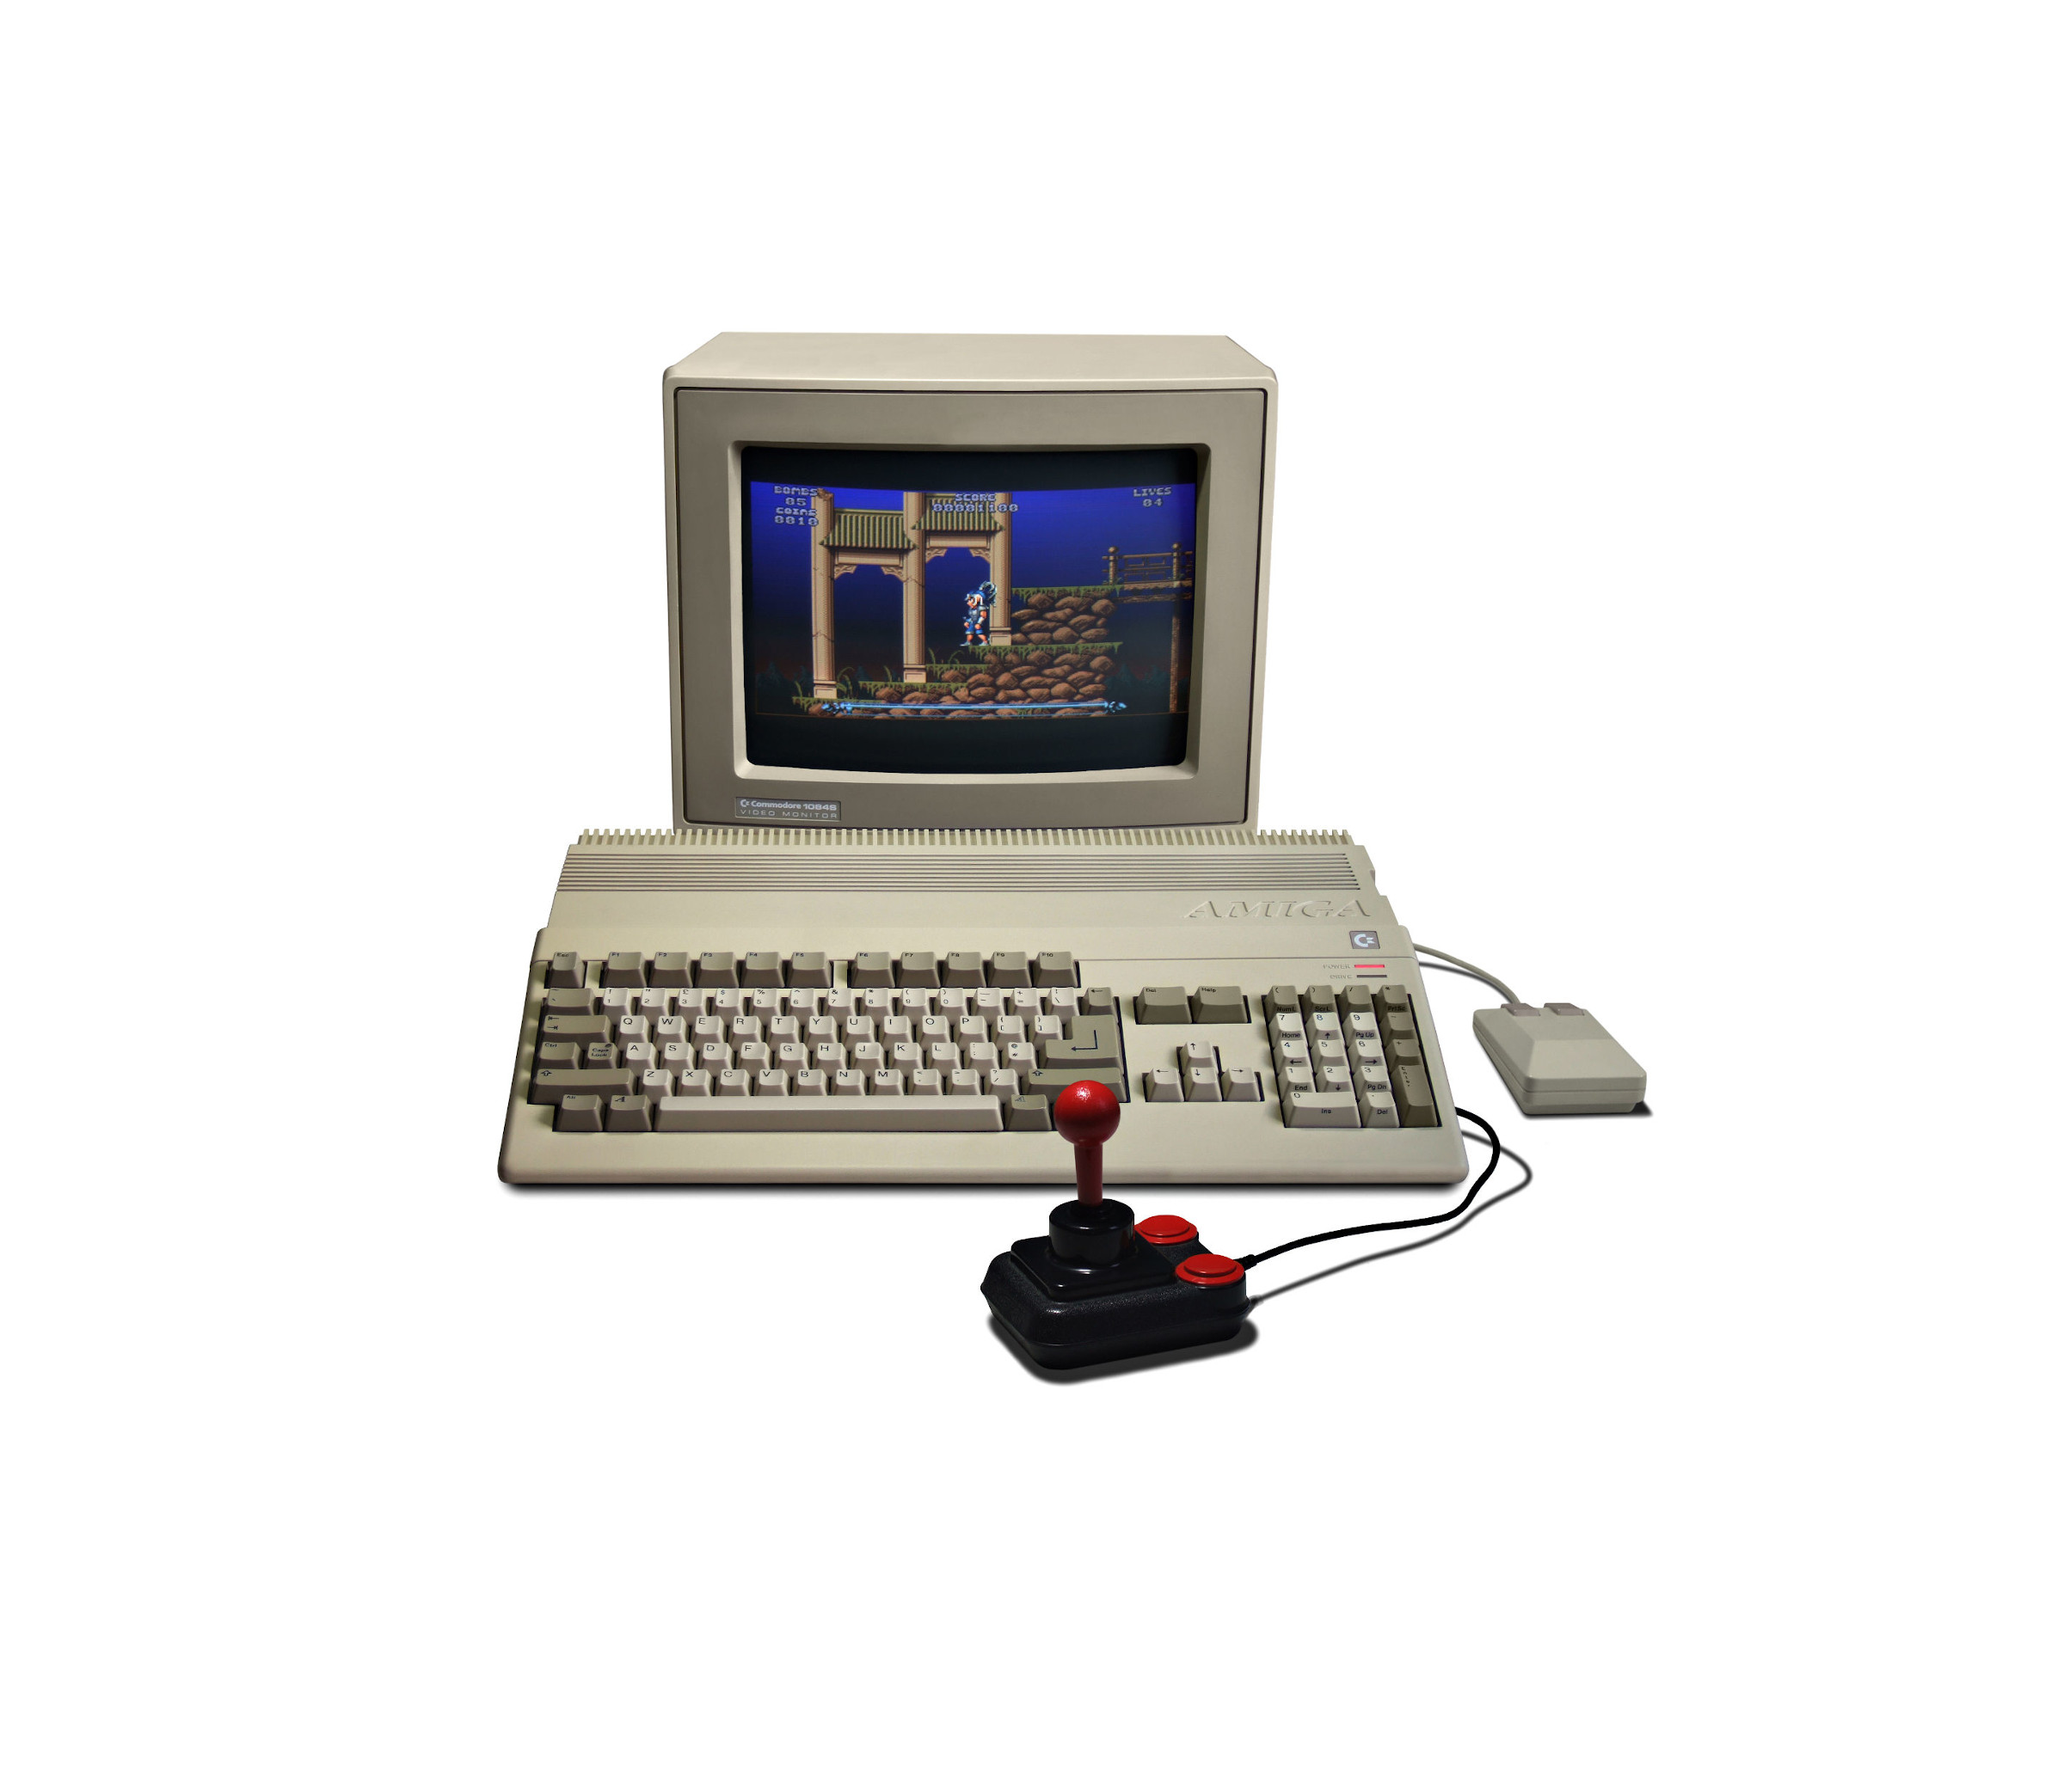
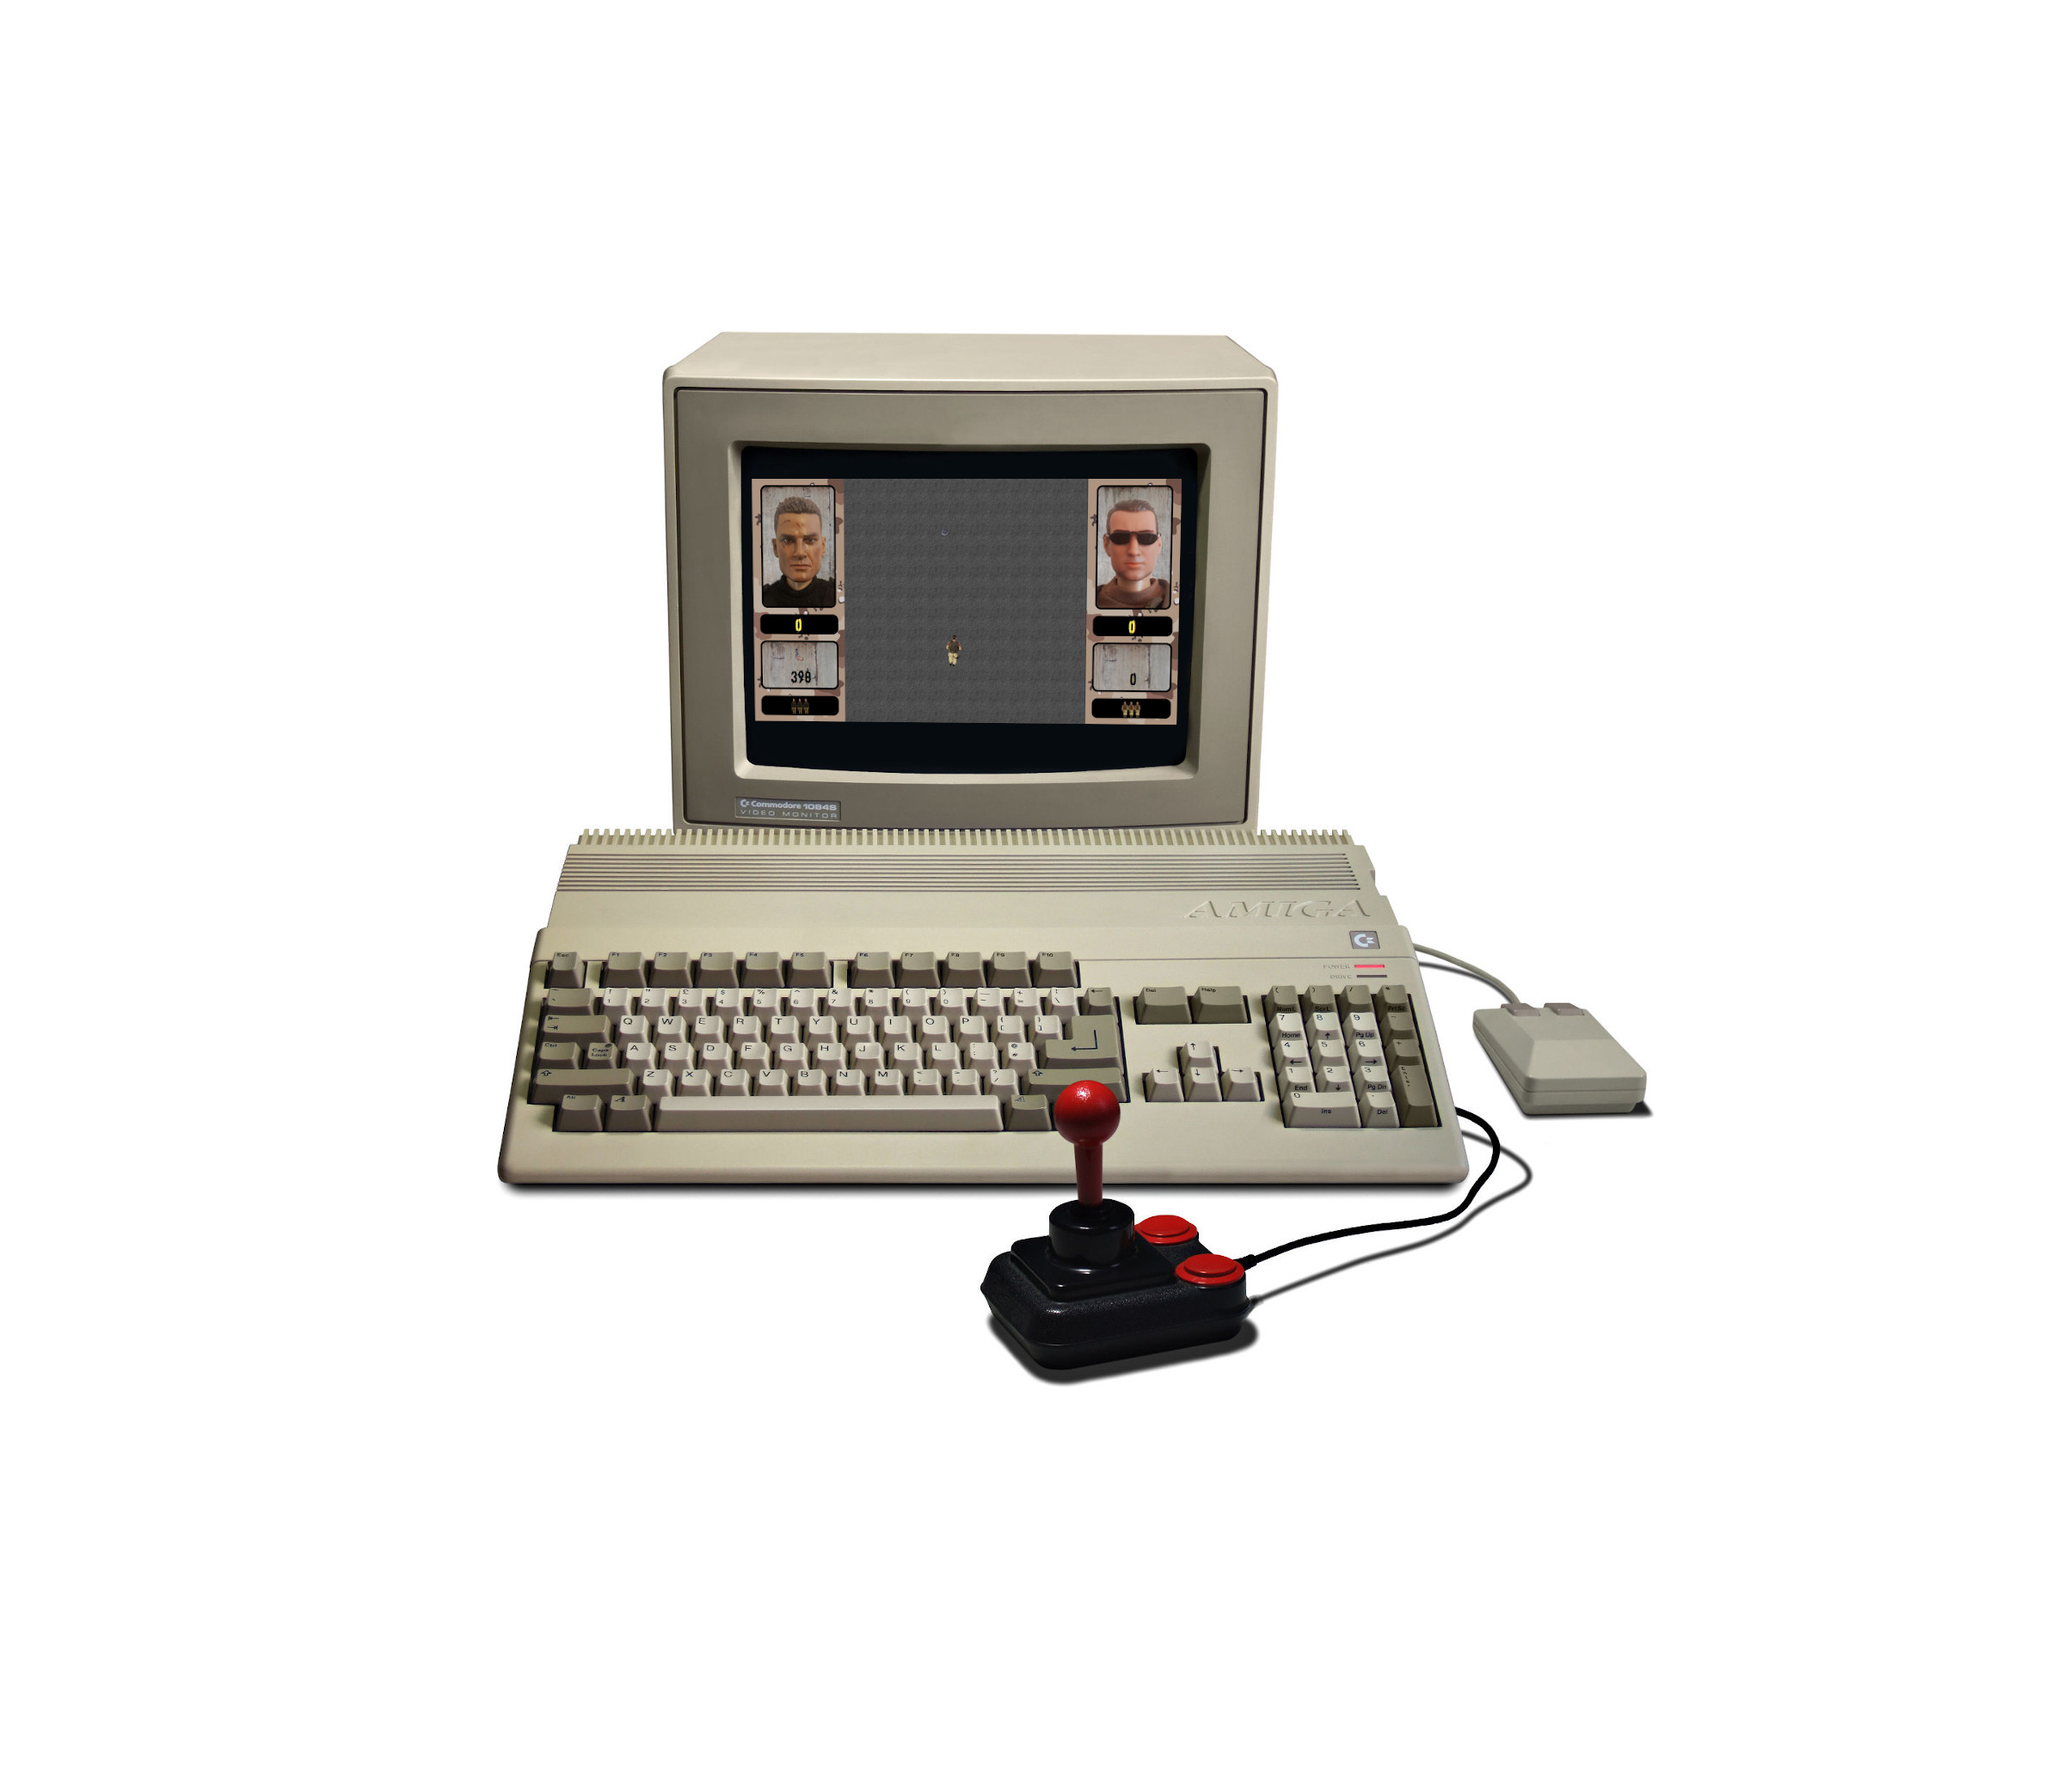
Replaced game on Amiga screen with current screenshot

Changed region(s): [[0.3438, 0.25, 0.5938, 0.4062]]

diff --git a/locstats.md b/locstats.md
@@ -1,5 +1,5 @@
 
-cloc|github.com/AlDanial/cloc v 1.82  T=0.09 s (1388.5 files/s, 119872.8 lines/s)
+cloc|github.com/AlDanial/cloc v 1.82  T=0.05 s (2280.5 files/s, 196876.4 lines/s)
 --- | ---
 
 Language|files|blank|comment|code
